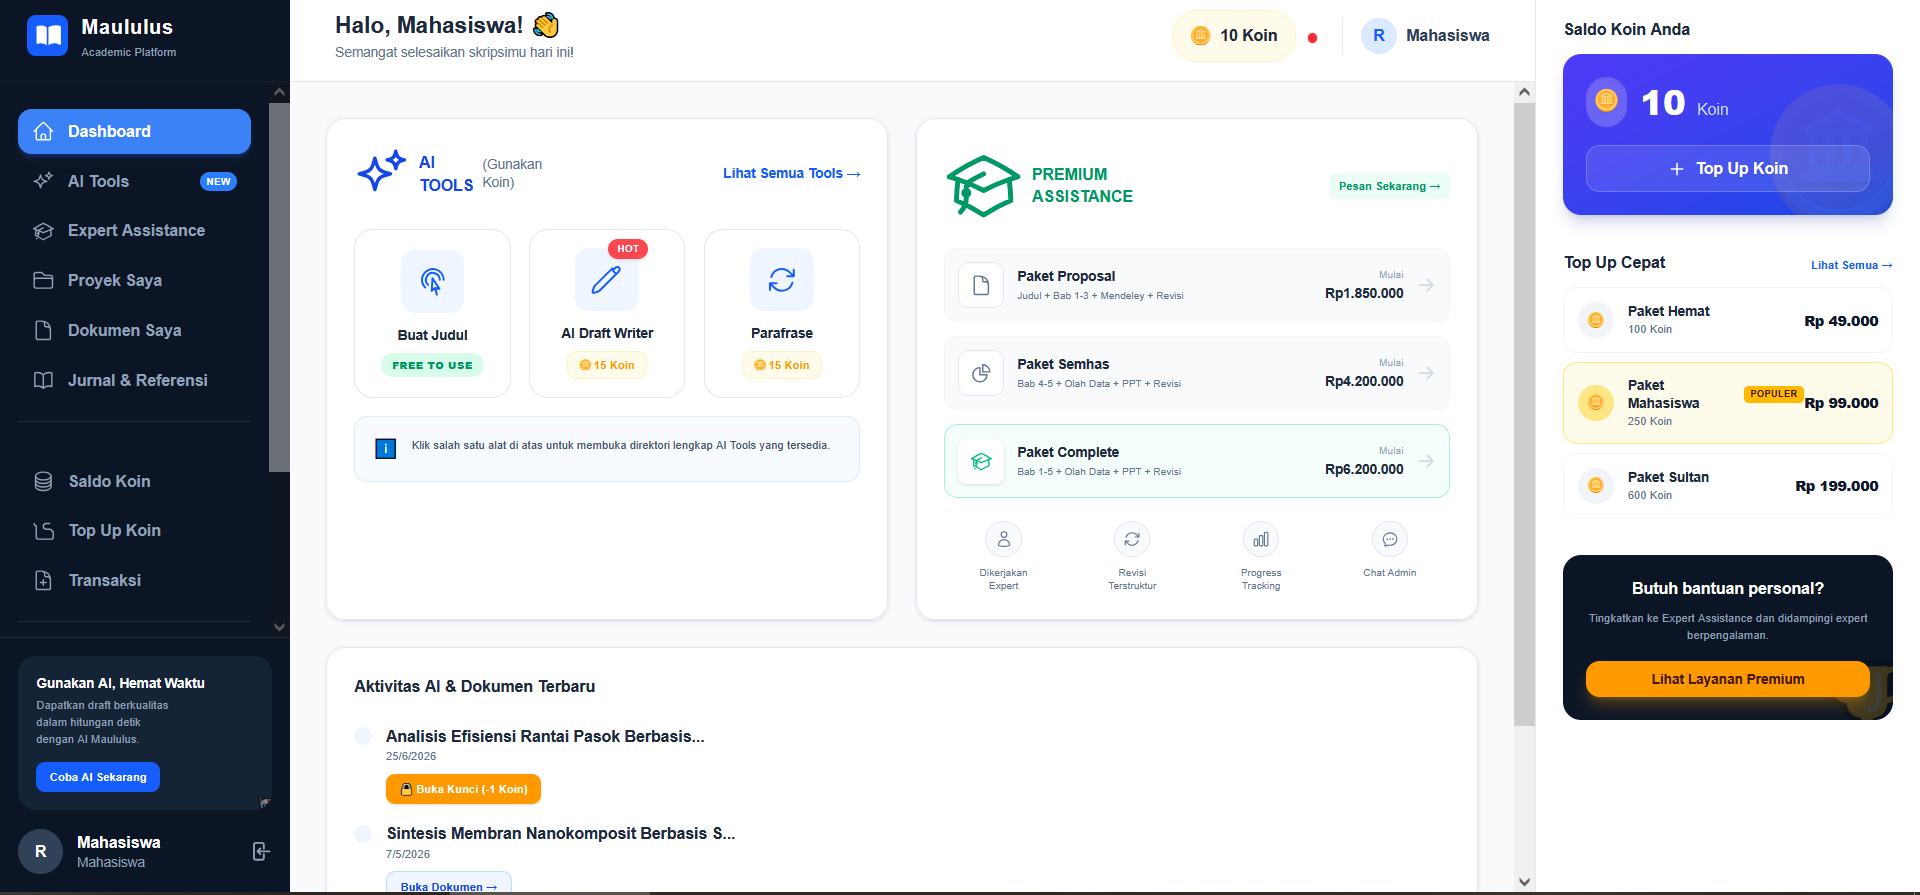
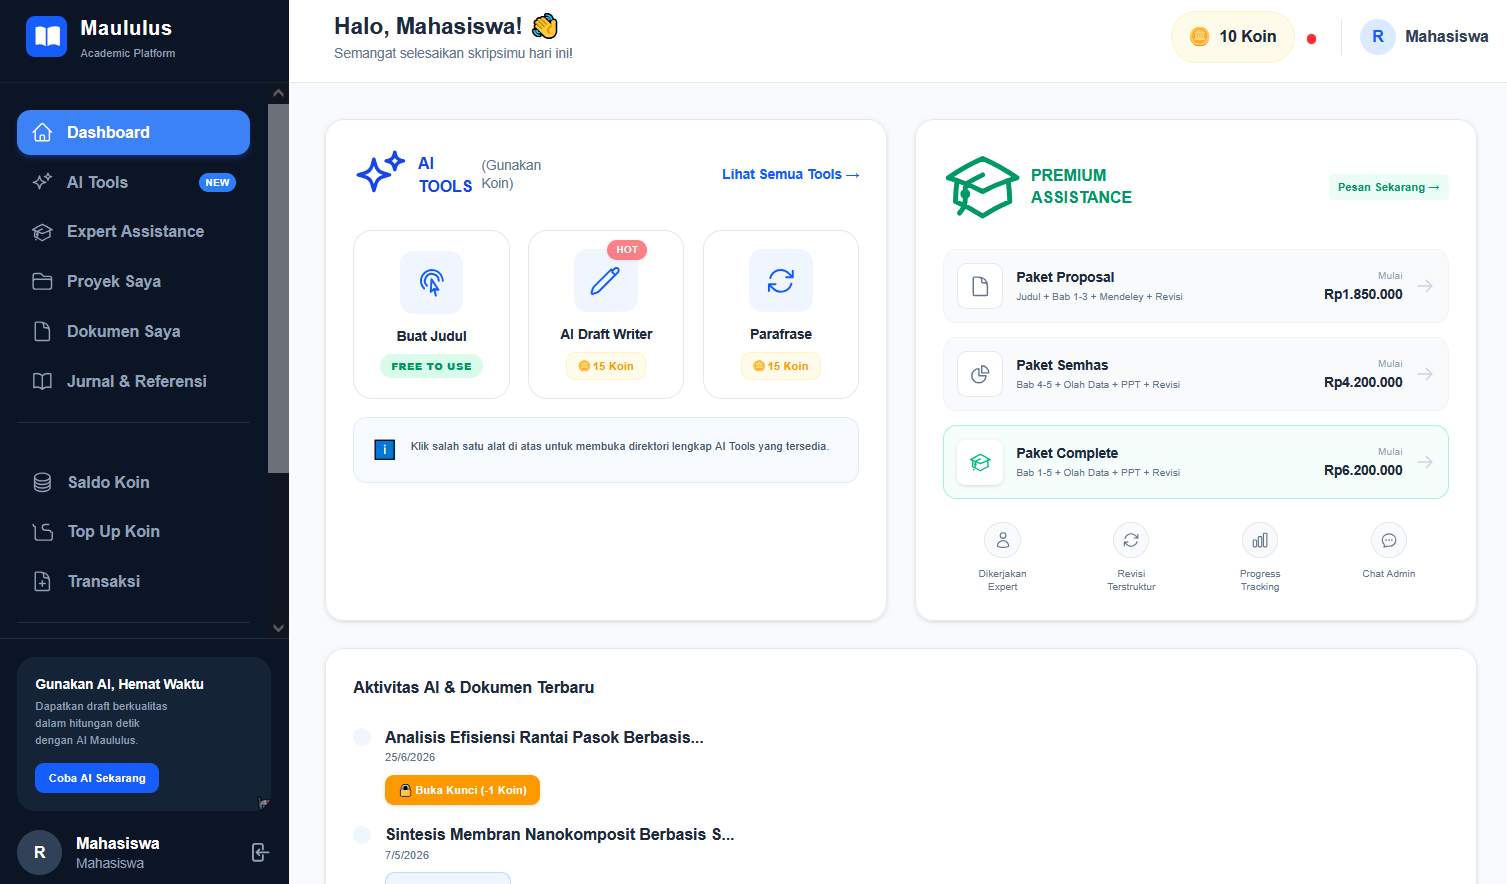
FIxed : Cookies dan TopUp Koin

diff --git a/app/api/webhook/midtrans/route.ts b/app/api/webhook/midtrans/route.ts
@@ -1,128 +1,73 @@
+// app/api/webhook/midtrans/route.ts
 import { NextResponse } from 'next/server';
 import { createClient } from '@supabase/supabase-js';
 
-// 1. BARIS WAJIB UNTUK CLOUDFLARE PAGES / EDGE RUNTIME
 export const runtime = 'edge';
 
-// Inisialisasi Supabase menggunakan Service Role Key (Wajib agar bisa menembus RLS)
-const supabase = createClient(
-  process.env.NEXT_PUBLIC_SUPABASE_URL!,
-  process.env.SUPABASE_SERVICE_ROLE_KEY! 
-);
-
-// 2. FUNGSI HASH SHA-512 UNTUK EDGE RUNTIME
-async function generateSHA512(data: string) {
-  const encoder = new TextEncoder();
-  const dataBuffer = encoder.encode(data);
-  const hashBuffer = await crypto.subtle.digest('SHA-512', dataBuffer);
-  const hashArray = Array.from(new Uint8Array(hashBuffer));
-  return hashArray.map((b) => b.toString(16).padStart(2, '0')).join('');
-}
-
-// 3. FUNGSI GET: Agar URL tidak 404 saat kamu klik / cek manual di Browser
-export async function GET() {
-  return NextResponse.json(
-    { status: 'success', message: 'Webhook Midtrans Maululus Aktif dan Standby.' },
-    { status: 200 }
-  );
-}
-
-// 4. FUNGSI POST: Untuk menerima data dari Midtrans
 export async function POST(req: Request) {
   try {
     const body = await req.json();
+    const { transaction_status, order_id, gross_amount, custom_field1, custom_field2, payment_type, customer_details } = body;
 
-    // --- TANGKAP "TEST PING" DARI DASHBOARD MIDTRANS ---
-    // Midtrans biasanya mengirim payload tanpa order_id atau data dummy saat tombol "Simpan" ditekan
-    if (!body.order_id || body.order_id === 'test') {
-      console.log('Menerima Test Ping dari Midtrans');
-      return NextResponse.json({ message: 'Ping Diterima' }, { status: 200 });
-    }
+    // 🔴 SANGAT PENTING: Gunakan SERVICE_ROLE_KEY (Bukan ANON_KEY)
+    // Karena request datang dari server Midtrans (tanpa cookie user), kita harus menggunakan kunci Admin agar tidak diblokir database
+    const supabaseAdmin = createClient(
+      process.env.NEXT_PUBLIC_SUPABASE_URL!,
+      process.env.SUPABASE_SERVICE_ROLE_KEY! 
+    );
 
-    const {
-      order_id,
-      status_code,
-      gross_amount,
-      signature_key,
-      transaction_status,
-      fraud_status,
-      custom_field1, // Berisi ID User 
-      custom_field2  // Berisi Nama Paket 
-    } = body;
+    // Midtrans akan mengirim status 'settlement' atau 'capture' jika user BERHASIL bayar
+    if (transaction_status === 'settlement' || transaction_status === 'capture') {
+      const userId = custom_field1;
+      const paketNama = custom_field2;
+      const userEmail = customer_details?.email || 'Dari Midtrans';
 
-    // Verifikasi Keamanan Signature Midtrans
-    const serverKey = process.env.MIDTRANS_SERVER_KEY!;
-    const hashInput = order_id + status_code + gross_amount + serverKey;
-    const hash = await generateSHA512(hashInput);
-
-    if (hash !== signature_key) {
-      console.error('Invalid signature from Midtrans');
-      // Tetap kembalikan 200 agar Midtrans tidak mengulang-ulang pengiriman (spam)
-      return NextResponse.json({ error: 'Signature tidak valid' }, { status: 200 });
-    }
-
-    // Cek apakah status pembayaran sukses (settlement atau capture yang di-accept)
-    if (transaction_status === 'settlement' || (transaction_status === 'capture' && fraud_status === 'accept')) {
-      
-      // Jika custom_field1 tidak ada (mungkin karena kelupaan di-inject saat API /payment)
-      if (!custom_field1) {
-        console.error(`Transaksi sukses (Order ID: ${order_id}), tapi custom_field1 (User ID) kosong.`);
-        return NextResponse.json({ message: 'OK, tapi User ID kosong' }, { status: 200 });
+      if (!userId || !paketNama) {
+        return NextResponse.json({ message: 'Data custom_field tidak lengkap' }, { status: 400 });
       }
 
-      // ==============================================================
-      // LOGIKA 1: PEMBELIAN PAKET EXPERT (Contoh: Pro Scholar)
-      // ==============================================================
-      if (custom_field2 === 'Pro Scholar') {
-        const { error } = await supabase
+      // 1. Ambil jumlah koin yang harus ditambahkan dari paket yang dibeli
+      const { data: pkg } = await supabaseAdmin
+        .from('coin_packages')
+        .select('koin')
+        .eq('nama', paketNama)
+        .single();
+        
+      const koinDidapat = pkg?.koin || 0;
+
+      if (koinDidapat > 0) {
+        // 2. Ambil koin user saat ini
+        const { data: userData } = await supabaseAdmin
           .from('users_data')
-          .update({ 
-            is_pro: true, 
-            koin: 11 
-          })
-          .eq('id', custom_field1);
-
-        if (error) throw error;
-        console.log(`Berhasil memperbarui akun PRO untuk user: ${custom_field1}`);
-      } 
-      
-      // ==============================================================
-      // LOGIKA 2: PEMBELIAN TOP UP KOIN BIASA
-      // ==============================================================
-      else {
-        const { data: coinPkg } = await supabase
-          .from('coin_packages')
-          .select('koin') 
-          .eq('nama', custom_field2)
-          .single();
-        
-        const totalKoinDidapat = coinPkg ? coinPkg.koin : Math.floor(parseInt(gross_amount) / 1000);
-
-        const { data: currentProfile } = await supabase
-          .from('profiles')
           .select('koin')
-          .eq('id', custom_field1)
+          .eq('id', userId)
           .single();
+          
+        const currentKoin = userData?.koin || 0;
 
-        const sisaKoin = currentProfile?.koin || 0;
+        // 3. Eksekusi penambahan koin ke akun user
+        await supabaseAdmin
+          .from('users_data')
+          .update({ koin: currentKoin + koinDidapat })
+          .eq('id', userId);
 
-        const { error: updateError } = await supabase
-          .from('profiles')
-          .update({ koin: sisaKoin + totalKoinDidapat })
-          .eq('id', custom_field1);
-
-        if (updateError) throw updateError;
-        
-        console.log(`Berhasil Topup ${totalKoinDidapat} koin untuk user: ${custom_field1}`);
+        // 4. Catat riwayat di tabel transactions agar muncul di dashboard admin & user
+        await supabaseAdmin.from('transactions').insert({
+          user_id: userId,
+          user_email: userEmail,
+          paket_nama: paketNama,
+          koin_jumlah: koinDidapat,
+          harga_rp: parseInt(gross_amount),
+          metode: payment_type,
+          status: 'SUCCESS' // Atau order_id
+        });
       }
     }
 
-    // WAJIB: Selalu return 200 OK di akhir proses
-    return NextResponse.json({ message: 'Data berhasil diproses' }, { status: 200 });
-
+    // Selalu kembalikan respon 200 OK agar Midtrans berhenti mengirim notifikasi berulang
+    return NextResponse.json({ status: 'success' });
   } catch (error: any) {
     console.error('Webhook Error:', error.message);
-    // Meskipun terjadi error internal (misal DB mati), kembalikan 200 OK ke Midtrans agar tidak ditandai sebagai URL rusak
-    return NextResponse.json({ message: 'Terjadi kesalahan internal, tapi webhook diterima' }, { status: 200 });
+    return NextResponse.json({ error: error.message }, { status: 500 });
   }
 }

diff --git a/app/components/CookieBanner.tsx b/app/components/CookieBanner.tsx
@@ -1,0 +1,54 @@
+// app/components/CookieBanner.tsx
+'use client';
+
+import { useState, useEffect } from 'react';
+import Link from 'next/link';
+
+export default function CookieBanner() {
+  const [isVisible, setIsVisible] = useState(false);
+
+  useEffect(() => {
+    // Cek apakah user sudah pernah menyetujui cookies sebelumnya
+    const consent = localStorage.getItem('maululus_cookie_consent');
+    if (!consent) {
+      setIsVisible(true);
+    }
+  }, []);
+
+  const handleAccept = () => {
+    // Simpan persetujuan di localStorage agar popup tidak muncul lagi selama 1 tahun
+    localStorage.setItem('maululus_cookie_consent', 'accepted');
+    setIsVisible(false);
+  };
+
+  if (!isVisible) return null;
+
+  return (
+    <div className="fixed bottom-0 left-0 right-0 z-[100] p-4 animate-in slide-in-from-bottom-10 duration-700">
+      <div className="max-w-5xl mx-auto bg-white/95 backdrop-blur-md border border-slate-200 shadow-2xl rounded-2xl p-5 md:p-6 flex flex-col md:flex-row items-center justify-between gap-4 md:gap-8">
+        
+        <div className="flex items-start gap-4">
+          <div className="text-3xl hidden sm:block">🍪</div>
+          <div>
+            <h3 className="text-sm font-bold text-slate-800 mb-1">Website ini menggunakan Cookies</h3>
+            <p className="text-xs text-slate-500 leading-relaxed max-w-2xl">
+              Kami menggunakan kuki (cookies) esensial untuk menjaga sesi login Anda dan membatasi penggunaan fitur gratis demi keamanan. Dengan melanjutkan navigasi di situs ini, Anda menyetujui penggunaan kuki kami. 
+              Baca selengkapnya di <Link href="/kebijakan-privasi" className="text-blue-600 font-semibold hover:underline">Kebijakan Privasi</Link> kami.
+            </p>
+          </div>
+        </div>
+
+        <div className="flex w-full md:w-auto items-center gap-3 shrink-0">
+          {/* Tombol Terima */}
+          <button 
+            onClick={handleAccept}
+            className="w-full md:w-auto bg-[#0f2a4a] hover:bg-slate-800 text-white text-xs font-bold px-6 py-3 rounded-xl transition-all shadow-md active:scale-95 whitespace-nowrap"
+          >
+            Mengerti & Lanjutkan
+          </button>
+        </div>
+
+      </div>
+    </div>
+  );
+}

diff --git a/app/layout.tsx b/app/layout.tsx
@@ -1,6 +1,8 @@
+// app/layout.tsx
 import type { Metadata } from "next";
 import { Poppins } from "next/font/google";
 import "./globals.css";
+import CookieBanner from "./components/CookieBanner"; // <-- 1. Import Cookie Banner
 
 // Konfigurasi Font Poppins
 const poppins = Poppins({
@@ -83,6 +85,10 @@ export default function RootLayout({
       </head>
       <body className={`${poppins.variable} font-sans antialiased text-slate-900 bg-slate-50`}>
         {children}
+        
+        {/* 4. Pasang Cookie Banner di Sini */}
+        <CookieBanner />
+        
         {/* SCRIPT MIDTRANS SUDAH DIHAPUS DARI SINI AGAR TIDAK BENTROK DENGAN GOOGLE LOGIN */}
       </body>
     </html>

diff --git a/app/api/generate-judul/route.ts b/app/api/generate-judul/route.ts
@@ -26,7 +26,7 @@ export async function POST(req: Request) {
       // Jika limit sudah habis, tolak permintaan
       if (freeUsageCount >= 2) {
         return NextResponse.json(
-          { error: 'Batas penggunaan gratis habis (Maks. 2x). Silakan Masuk / Daftar Akun secara gratis untuk melanjutkan!' }, 
+          { error: 'Batas penggunaan tercapai. Silakan Masuk / Daftar Akun untuk Unlimited Generate' }, 
           { status: 401 }
         );
       }